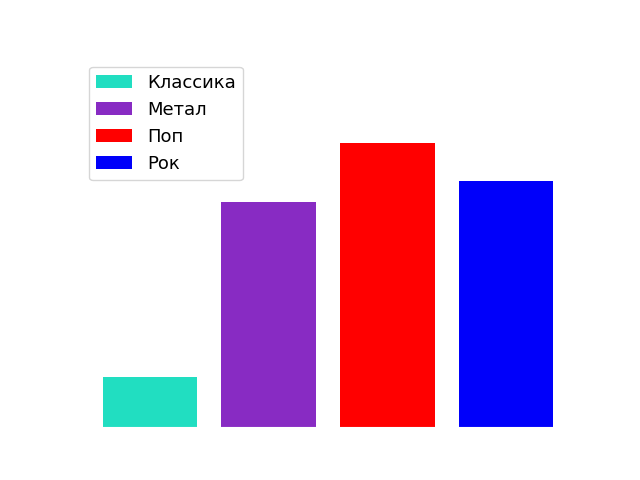
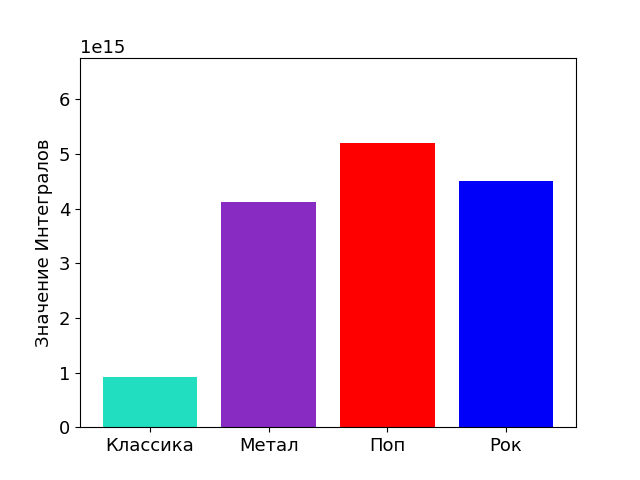
code refactor, update getting average, final solution

diff --git a/utils/compare_charts.py b/utils/compare_charts.py
@@ -14,7 +14,7 @@ from utils.my_argparse import setup_basic_config
 args = setup_basic_config()
 log = logging.getLogger(__name__)
 
-setup_matplotlib_text_color('white')
+setup_matplotlib_text_color('black')
 setup_matplotlib(**{'font.size': '13'})
 
 COLORS = {
@@ -74,14 +74,14 @@ def find_song_names(directory='all'):
     for elem in data:
         build_one_chart(*elem, ax, already, average, integrals)
 
-    ax.tick_params(color='white', labelcolor='white')
-    for spine in ax.spines.values():
-        spine.set_edgecolor('white')
+    # ax.tick_params(color='white', labelcolor='white')
+    # for spine in ax.spines.values():
+    #     spine.set_edgecolor('white')
     ax.legend()
 
     plt.ylabel('Амплитуда')
     plt.xlabel('Частота')
-    plt.savefig(f"{PROCESSED}/least_squares/compare_charts_1.png", transparent=True)
+    plt.savefig(f"{PROCESSED}/least_squares/compare_charts.png", transparent=True)
     plt.show()
     return average
 
@@ -157,15 +157,14 @@ def plot_average_integrals():
     fig, ax = plt.subplots()
 
     for (data, name, color) in items_data:
-        ax.bar([name], [float(data)], color=color, label=name)
+        ax.bar([name], [float(data)], color=color)
 
-    ax.tick_params(color='white', labelcolor='white')
-    for spine in ax.spines.values():
-        spine.set_edgecolor('white')
+    # ax.tick_params(color='white', labelcolor='white')
+    # for spine in ax.spines.values():
+    #     spine.set_edgecolor('white')
 
-    ax.legend()
     ax.set_ylabel('Значение Интегралов')
-    ax.legend()
+    # ax.legend()
 
     plt.ylim(0, max(np.array(items_data[:, 0], dtype=np.float)) * 1.3)
     plt.savefig(f"{PROCESSED}/least_squares/integrals.png", transparent=True)
@@ -173,65 +172,66 @@ def plot_average_integrals():
 
 
 if __name__ == '__main__':
-    integrals_solution = {
-        'Бетховаен - к Элизе': 272928614201541,
-        'Бах - Сюита №2': 389878153454718,
-        'Моцарт - Соната №11': 424011686911891,
-        'Ludovico Einaudi - Fly': 459766055683055,
-        'Бетховен - Лунная Соната': 461353478964833,
-        'Фридерик Шопен - Фантазия-экспромт до-диез-минор, арфа': 675006446778743,
-        'Петр Ильич Чайковский - Марш Из Балета Щелкунчик': 717631724895771,
-        'Вивальди - Времена Года (Зима)': 1056041872230682,
-        'Моцарт - симфония №40': 1063645457001178,
-        'Mozart - Маленькая Ночная Серенада Аллегро': 1101940939898704,
-        'Сергей Прокофьев - Танец рыцарей (Балет Ромео и Джульетта, Картина Вторая)': 1104112313961104,
-        'Антонио Вивальди - Осень': 1203812069092099,
-        'Петр Ильич Чайковский - Вальс Цветов': 1288538970097158,
-        'Антонио Вивальди - Лето': 1342654844109467,
-        'Вагнер - Полет Валькирий': 2098274614457001,
-        'QUEEN - We Will Rock You': 2411845177981689,
-        'OPETH - Benighted': 2448954804775267,
-        'guns-n039-roses-don039t-cry': 2930502838951098,
-        'No': 3023565473276510, 'europe-carrie': 3064166396956886,
-        "Guns & Roses - Don't Cry": 3090774888847022,
-        'skid-row-18-and-life': 3376179902940316,
-        'linkin-park-in-the-end': 3694514695333535,
-        'Lady Gaga - Paparazzi': 3837386356316094,
-        'METALLICA - Nothing Else Matters ': 3888028209256786,
-        'imagine-dragons-demons': 4050014988609734,
-        'Lamb Of God - Walk with Me In Hell': 4100970586270982,
-        'ljapis-trubeckojj-voiny-sveta': 4158809398936860,
-        'metallica-the-unforgiven': 4359484132835800,
-        'papa-roach-last-resort': 4369798538977432,
-        'metallica-enter-sandman': 4403183194356534,
-        'Акула - Кислотный Диджей': 4579595173959673,
-        'Паша Сникерс - Не работать это моя работа': 4625425969710236,
-        'Big Baby Tape, kizaru - Million': 4629265629987491,
-        'dire-straits-sultans-of-swing': 4636586510470210,
-        'evanescence-bring-me-to-life': 4644695141877641,
-        'nickelback-burn-it-to-the-ground': 4669416821741676,
-        'Порнофильмы - В диапазоне': 4707260142143104,
-        'metallica-wherever-i-may-roam': 4728057121896791,
-        'metallica-sad-but-true': 4728435161910524,
-        'nightwish-she-is-my-sin': 4759808979624309,
-        'UncleFlexxx - Camry 3': 4779443909721725,
-        'nervy-samyjj-dorogojj-chelovek': 4807432290491694,
-        'Bullet for my valentine - Tears Dont Fall': 4839827084822567,
-        'Иван Дорн - Стыцамэн ': 4867510369428136,
-        'DABRO - Юность': 4871238068911061,
-        'numer-482-dobrijj-ranok-ukrayino': 4970051978746617,
-        'splin-vykhoda-net': 5038241890834722,
-        'fall-out-boy-centuries': 5056321111051028,
-        'SCORPIONS - Still Loving You': 5071710086612195,
-        'Николай Басков - Натуральный блондин': 5108663116294911,
-        'INSTASAMKA - DADADA': 5252356836798459,
-        'bi-2-kompromiss': 5394304695055430,
-        'ЕГОР КРИД - Самая самая': 5480011191373022,
-        'leningrad-v-pitere-pit': 5698654990063436,
-        'Хлеб - Шашлындос': 5798134138655503,
-        'Пуси Джуси - Инстасамка [mp3ten': 6378093715413223,
-        'GONE': 6378426365804057,
-        'Юрий Шатунов - Седая Ночь': 6723715587443644,
-        'twenty-one-pilots-stressed-out': 6896971892489209}
-
-    solution(integrals_solution)
+    # integrals_solution = {
+    #     'Бетховаен - к Элизе': 272928614201541,
+    #     'Бах - Сюита №2': 389878153454718,
+    #     'Моцарт - Соната №11': 424011686911891,
+    #     'Ludovico Einaudi - Fly': 459766055683055,
+    #     'Бетховен - Лунная Соната': 461353478964833,
+    #     'Фридерик Шопен - Фантазия-экспромт до-диез-минор, арфа': 675006446778743,
+    #     'Петр Ильич Чайковский - Марш Из Балета Щелкунчик': 717631724895771,
+    #     'Вивальди - Времена Года (Зима)': 1056041872230682,
+    #     'Моцарт - симфония №40': 1063645457001178,
+    #     'Mozart - Маленькая Ночная Серенада Аллегро': 1101940939898704,
+    #     'Сергей Прокофьев - Танец рыцарей (Балет Ромео и Джульетта, Картина Вторая)': 1104112313961104,
+    #     'Антонио Вивальди - Осень': 1203812069092099,
+    #     'Петр Ильич Чайковский - Вальс Цветов': 1288538970097158,
+    #     'Антонио Вивальди - Лето': 1342654844109467,
+    #     'Вагнер - Полет Валькирий': 2098274614457001,
+    #     'QUEEN - We Will Rock You': 2411845177981689,
+    #     'OPETH - Benighted': 2448954804775267,
+    #     'guns-n039-roses-don039t-cry': 2930502838951098,
+    #     'No': 3023565473276510, 'europe-carrie': 3064166396956886,
+    #     "Guns & Roses - Don't Cry": 3090774888847022,
+    #     'skid-row-18-and-life': 3376179902940316,
+    #     'linkin-park-in-the-end': 3694514695333535,
+    #     'Lady Gaga - Paparazzi': 3837386356316094,
+    #     'METALLICA - Nothing Else Matters ': 3888028209256786,
+    #     'imagine-dragons-demons': 4050014988609734,
+    #     'Lamb Of God - Walk with Me In Hell': 4100970586270982,
+    #     'ljapis-trubeckojj-voiny-sveta': 4158809398936860,
+    #     'metallica-the-unforgiven': 4359484132835800,
+    #     'papa-roach-last-resort': 4369798538977432,
+    #     'metallica-enter-sandman': 4403183194356534,
+    #     'Акула - Кислотный Диджей': 4579595173959673,
+    #     'Паша Сникерс - Не работать это моя работа': 4625425969710236,
+    #     'Big Baby Tape, kizaru - Million': 4629265629987491,
+    #     'dire-straits-sultans-of-swing': 4636586510470210,
+    #     'evanescence-bring-me-to-life': 4644695141877641,
+    #     'nickelback-burn-it-to-the-ground': 4669416821741676,
+    #     'Порнофильмы - В диапазоне': 4707260142143104,
+    #     'metallica-wherever-i-may-roam': 4728057121896791,
+    #     'metallica-sad-but-true': 4728435161910524,
+    #     'nightwish-she-is-my-sin': 4759808979624309,
+    #     'UncleFlexxx - Camry 3': 4779443909721725,
+    #     'nervy-samyjj-dorogojj-chelovek': 4807432290491694,
+    #     'Bullet for my valentine - Tears Dont Fall': 4839827084822567,
+    #     'Иван Дорн - Стыцамэн ': 4867510369428136,
+    #     'DABRO - Юность': 4871238068911061,
+    #     'numer-482-dobrijj-ranok-ukrayino': 4970051978746617,
+    #     'splin-vykhoda-net': 5038241890834722,
+    #     'fall-out-boy-centuries': 5056321111051028,
+    #     'SCORPIONS - Still Loving You': 5071710086612195,
+    #     'Николай Басков - Натуральный блондин': 5108663116294911,
+    #     'INSTASAMKA - DADADA': 5252356836798459,
+    #     'bi-2-kompromiss': 5394304695055430,
+    #     'ЕГОР КРИД - Самая самая': 5480011191373022,
+    #     'leningrad-v-pitere-pit': 5698654990063436,
+    #     'Хлеб - Шашлындос': 5798134138655503,
+    #     'Пуси Джуси - Инстасамка [mp3ten': 6378093715413223,
+    #     'GONE': 6378426365804057,
+    #     'Юрий Шатунов - Седая Ночь': 6723715587443644,
+    #     'twenty-one-pilots-stressed-out': 6896971892489209}
+    #
+    # solution(integrals_solution)
+    plot_average_integrals()
